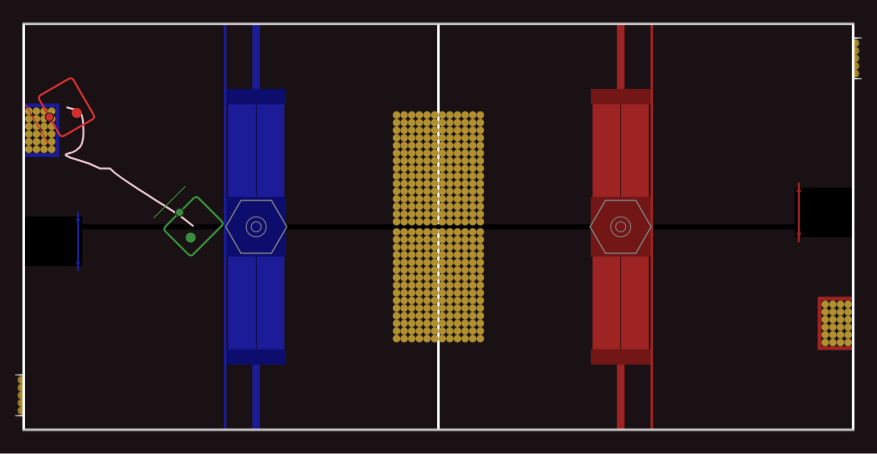
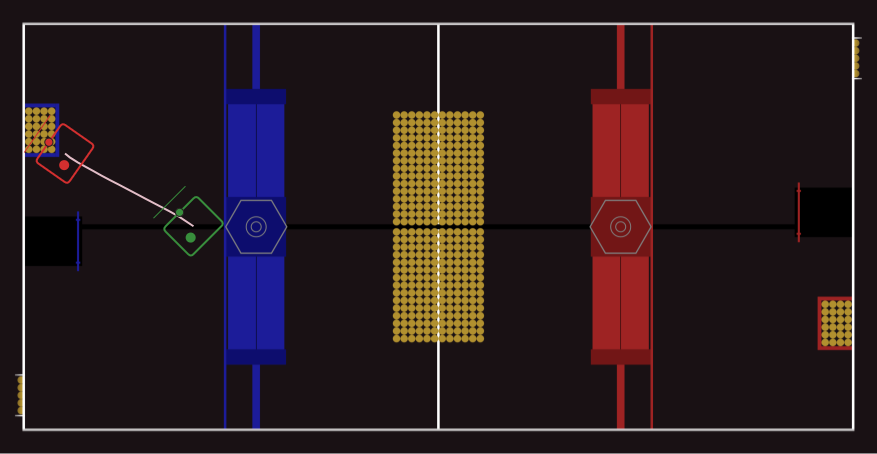
Updates for CMP

Changed region(s): [[0.0308, 0.1542, 0.2155, 0.4934]]

diff --git a/src/ui/components/Dashboard/AutoSettings.svelte b/src/ui/components/Dashboard/AutoSettings.svelte
@@ -3,8 +3,8 @@
   import SendableChooser from "../SendableChooser.svelte";
   import { NetworkTablesService as nt } from "../../services/NetworkTables.svelte";
 
-  let activeCommand = $derived(nt.topics.get("/SmartDashboard/Robot/Auto/active")?.value ?? "None" as string);
-  let commandName = $derived(nt.topics.get("/SmartDashboard/Robot/Auto/command")?.value ?? "None" as string);
+  let activeCommand = $derived((nt.topics.get("/SmartDashboard/Robot/Auto/active")?.value ?? "" as string).substring(3));
+  let commandName = $derived(nt.topics.get("/SmartDashboard/Robot/Auto/command")?.value ?? "NONE" as string);
   let isCompetitionMode = $derived(nt.topics.get("/SmartDashboard/Match/IsCompetitionMode")?.value ?? false as boolean);
 </script>
 
@@ -18,17 +18,16 @@
   </div>
   <div 
     class="active"
-    class:none={ activeCommand === "None" }>
+    class:none={ activeCommand == "None" }>
     { activeCommand }
   </div>
   <div class="auto">
-    {#if isCompetitionMode && activeCommand === "None" }
-      <div class="warning"><WarningAltFilled width=120 height=120 fill="#CCCC00" /></div>
-      <div class="info">No auto command selected for match!</div>
-    {:else}
-      {#if activeCommand != "None" }
-      <img src={ `./assets/images/autos/${ commandName }.png` } alt="" />
-      {/if}
+    <img src={ `./assets/images/autos/${ commandName }.png` } alt="" />
+    {#if isCompetitionMode && activeCommand == "None" }
+      <div class="noauto">
+        <div class="warning"><WarningAltFilled width=120 height=120 fill="#CCCC00" /></div>
+        <div class="info">No auto command selected<br/>for this match!</div>
+      </div>
     {/if}
   </div>
 </div>
@@ -64,6 +63,7 @@
     }
 
     & .auto{
+      position: relative;
       display: flex;
       flex-direction: column;
       align-items: center;
@@ -77,15 +77,23 @@
         filter: grayscale(100%);
       }
 
-      & .warning {
-        animation: pulse 750ms infinite ease;
-      }
+      & .noauto {
+        position: absolute;
+        bottom: 7.5em;
+        display: flex;
+        flex-direction: column;
+        align-items: center;
 
-      & .info {
-        margin: 1em 0;
-        text-align: center;
-        font-size: 125%;
-        line-height: 150%;
+        & .warning {
+          animation: pulse 750ms infinite ease;
+        }
+
+        & .info {
+          margin: 1em 0;
+          text-align: center;
+          font-size: 125%;
+          line-height: 150%;
+        }
       }
     }
   }

diff --git a/src/ui/components/Hud/LauncherStatus.svelte b/src/ui/components/Hud/LauncherStatus.svelte
@@ -34,7 +34,7 @@
       <div>Speed</div>
     </div>
     <div class="row">
-      <div class="target" class:engaged={ isActiveTargetEngaged }>{ activeTarget || "------------" }</div>
+      <div class="target" class:inactive={ !activeTarget } class:engaged={ isActiveTargetEngaged }>{ activeTarget || "?" }</div>
       <div class:invalid={ activeTarget && !activeTargetInfoIsDistanceValid }>{ activeTargetInfoDistance.toFixed(2) } m</div>
       <div class:invalid={ activeTarget && !activeTargetInfoIsHeadingValid }>{ activeTargetInfoHeading.toFixed(1) } &deg;</div>
       <div>{ (activeTargetInfoSpeed * 100).toFixed(1) } %</div>
@@ -118,16 +118,24 @@
           &.target {
             text-align: left;
             width: 8rem;
-          }
 
-          &.engaged {
-            background-color: var(--app-color-silver);
-            color:  var(--app-color-black);
-            animation: pulse 500ms infinite ease-out;
-          }
+            &.engaged {
+              background-color: var(--app-color-silver);
+              color:  var(--app-color-black);
+              animation: pulse 500ms infinite ease-out;
+            }
 
+            &.inactive {
+              background-color: var(--app-color-yellow);
+              color: var(--app-color-black);
+              text-align: center;
+              animation: pulse 1000ms infinite ease-out;
+            }
+          }
+          
           &.invalid {
             background-color: var(--app-color-red);
+            animation: pulse 500ms infinite ease-out;
           }
         }
       }

diff --git a/src/ui/components/Dashboard/ControllerMap.svelte b/src/ui/components/Dashboard/ControllerMap.svelte
@@ -17,10 +17,10 @@
       stickRightX: "Rotate",
       stickRightY: "",
       stickRightButton: "",
-      triggerLeft: "",
-      triggerRight: "",
+      triggerLeft: "Align For Bump",
+      triggerRight: "Run Intake",
       bumperLeft: "",
-      bumperRight: "Align For Bump",
+      bumperRight: "Retract Intake",
       buttonA: "",
       buttonB: "",
       buttonY: "",
@@ -42,7 +42,7 @@
       stickRightX: "",
       stickRightY: "",
       stickRightButton: "",
-      triggerLeft: "Run Intake",
+      triggerLeft: "",
       triggerRight: "Launch Fuel",
       bumperLeft: "Retract Intake",
       bumperRight: "Agitate Hopper",